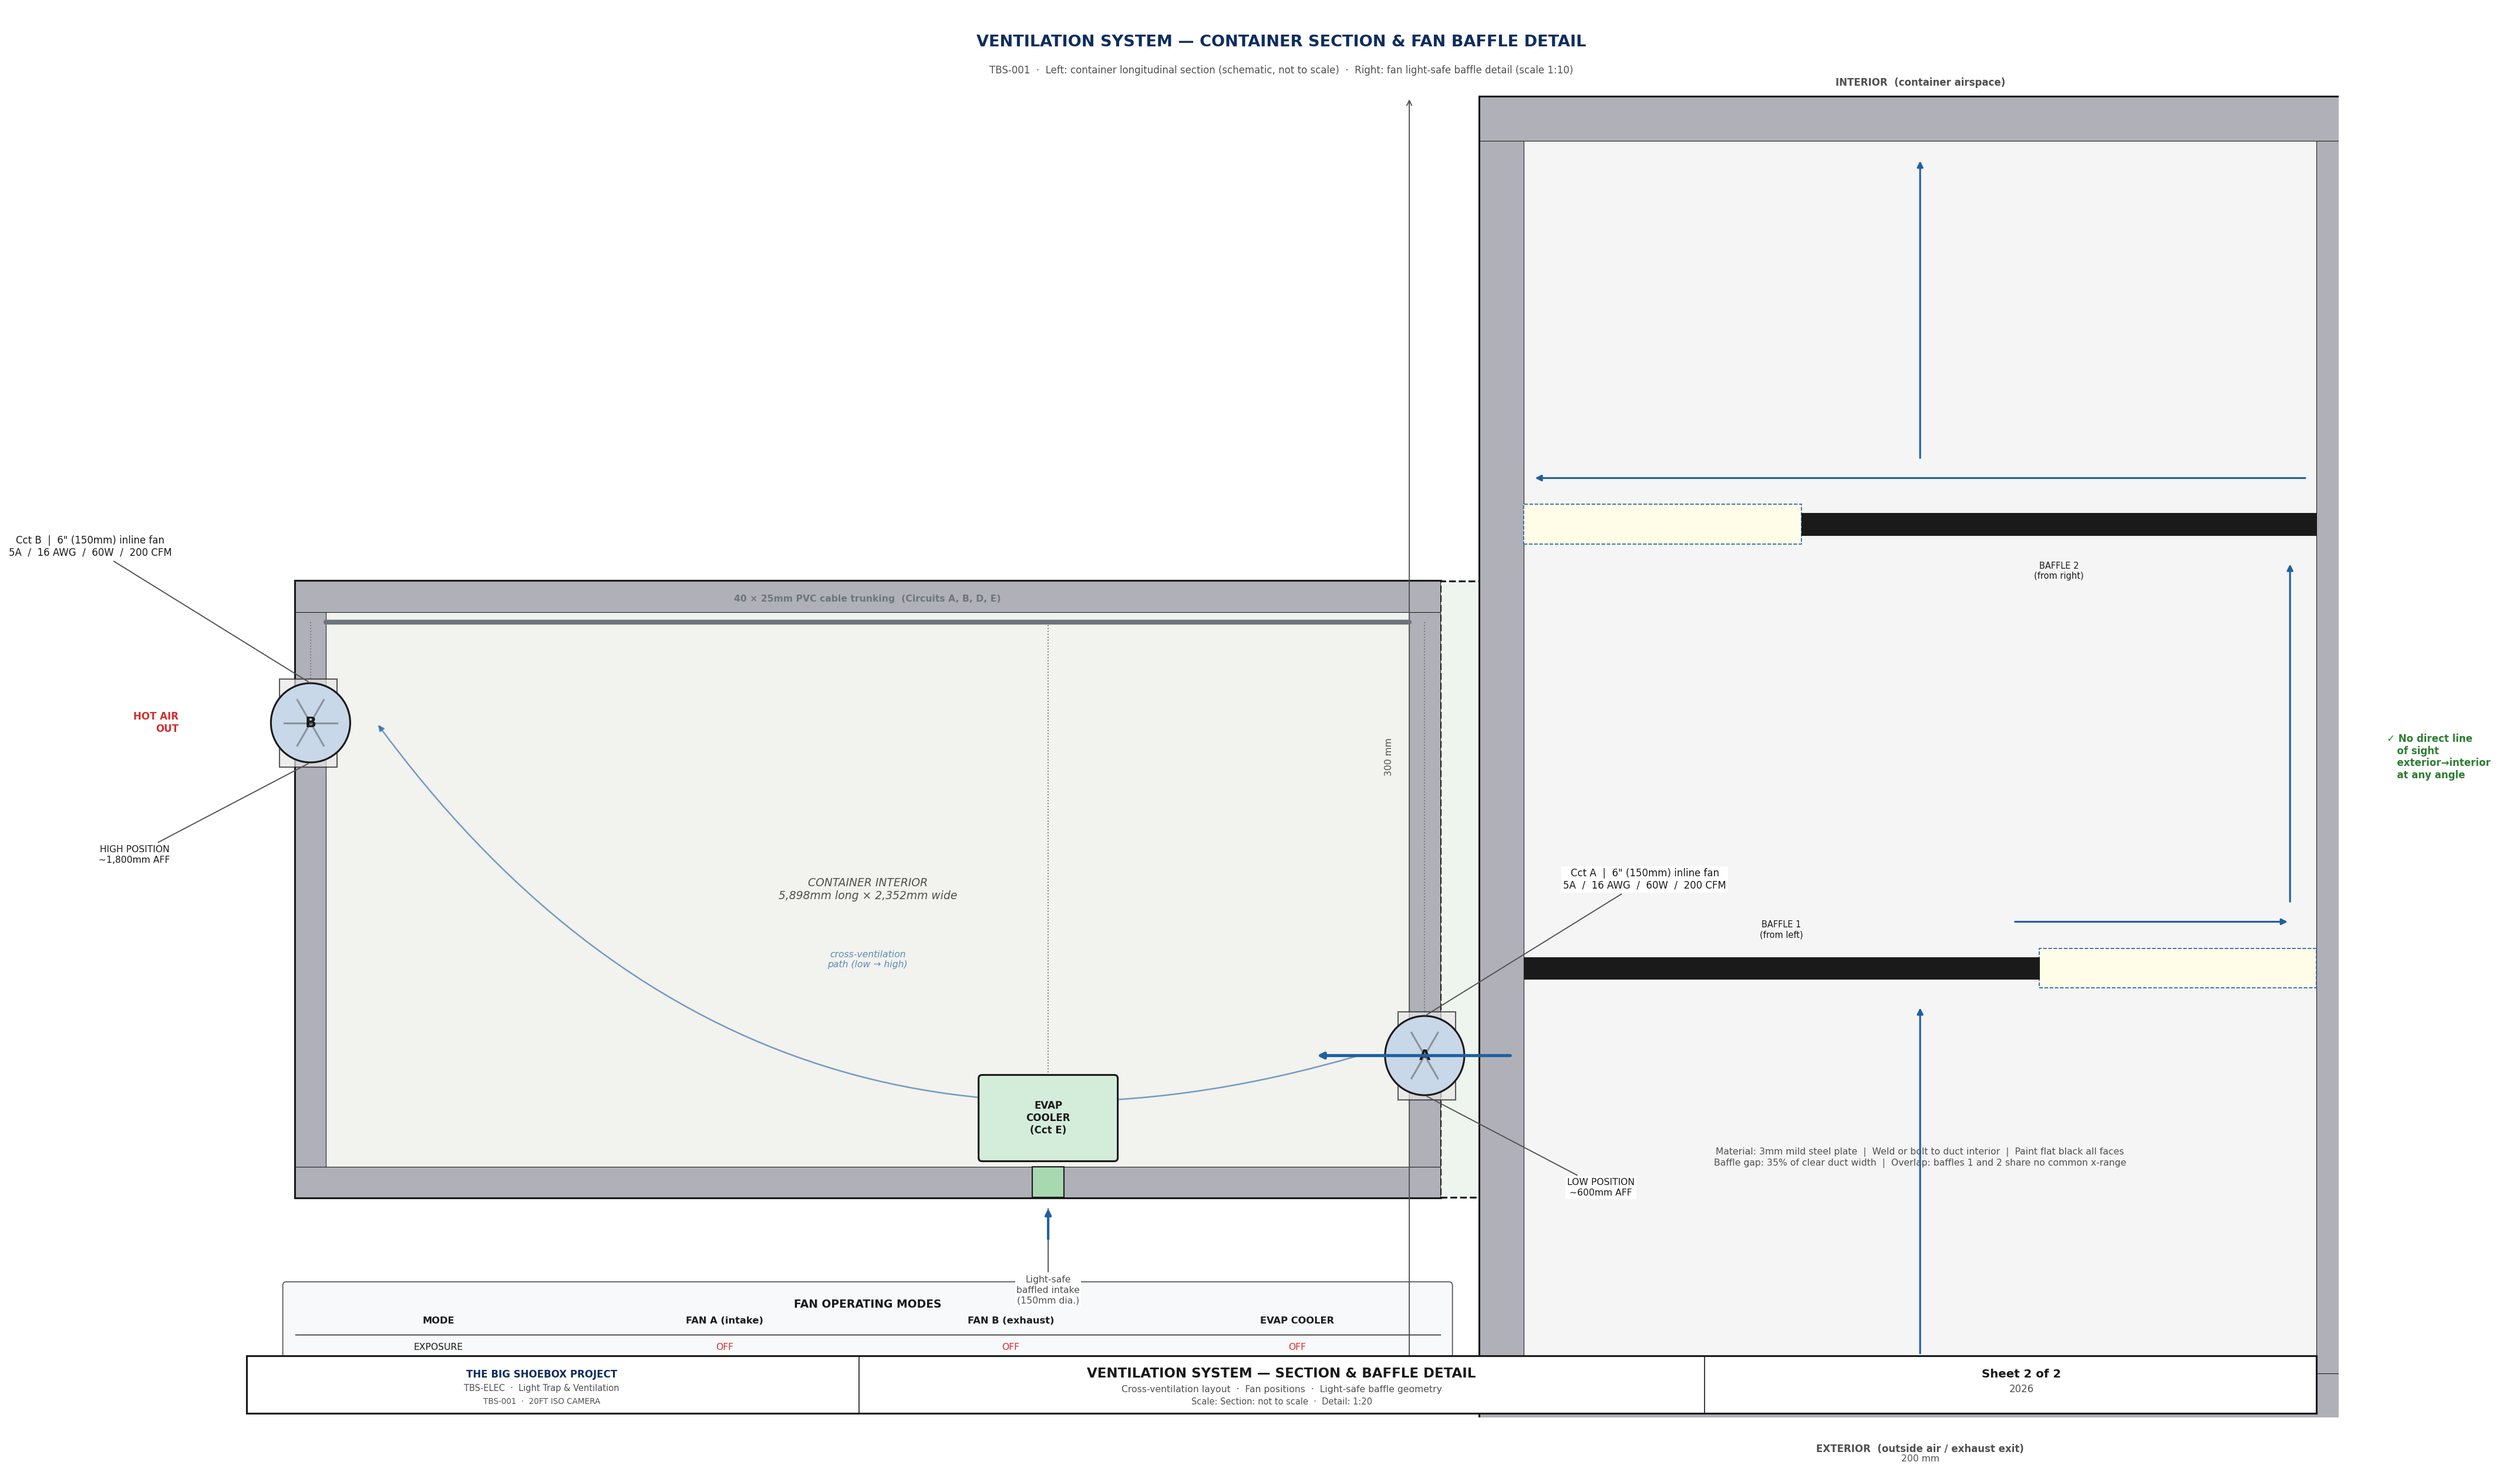
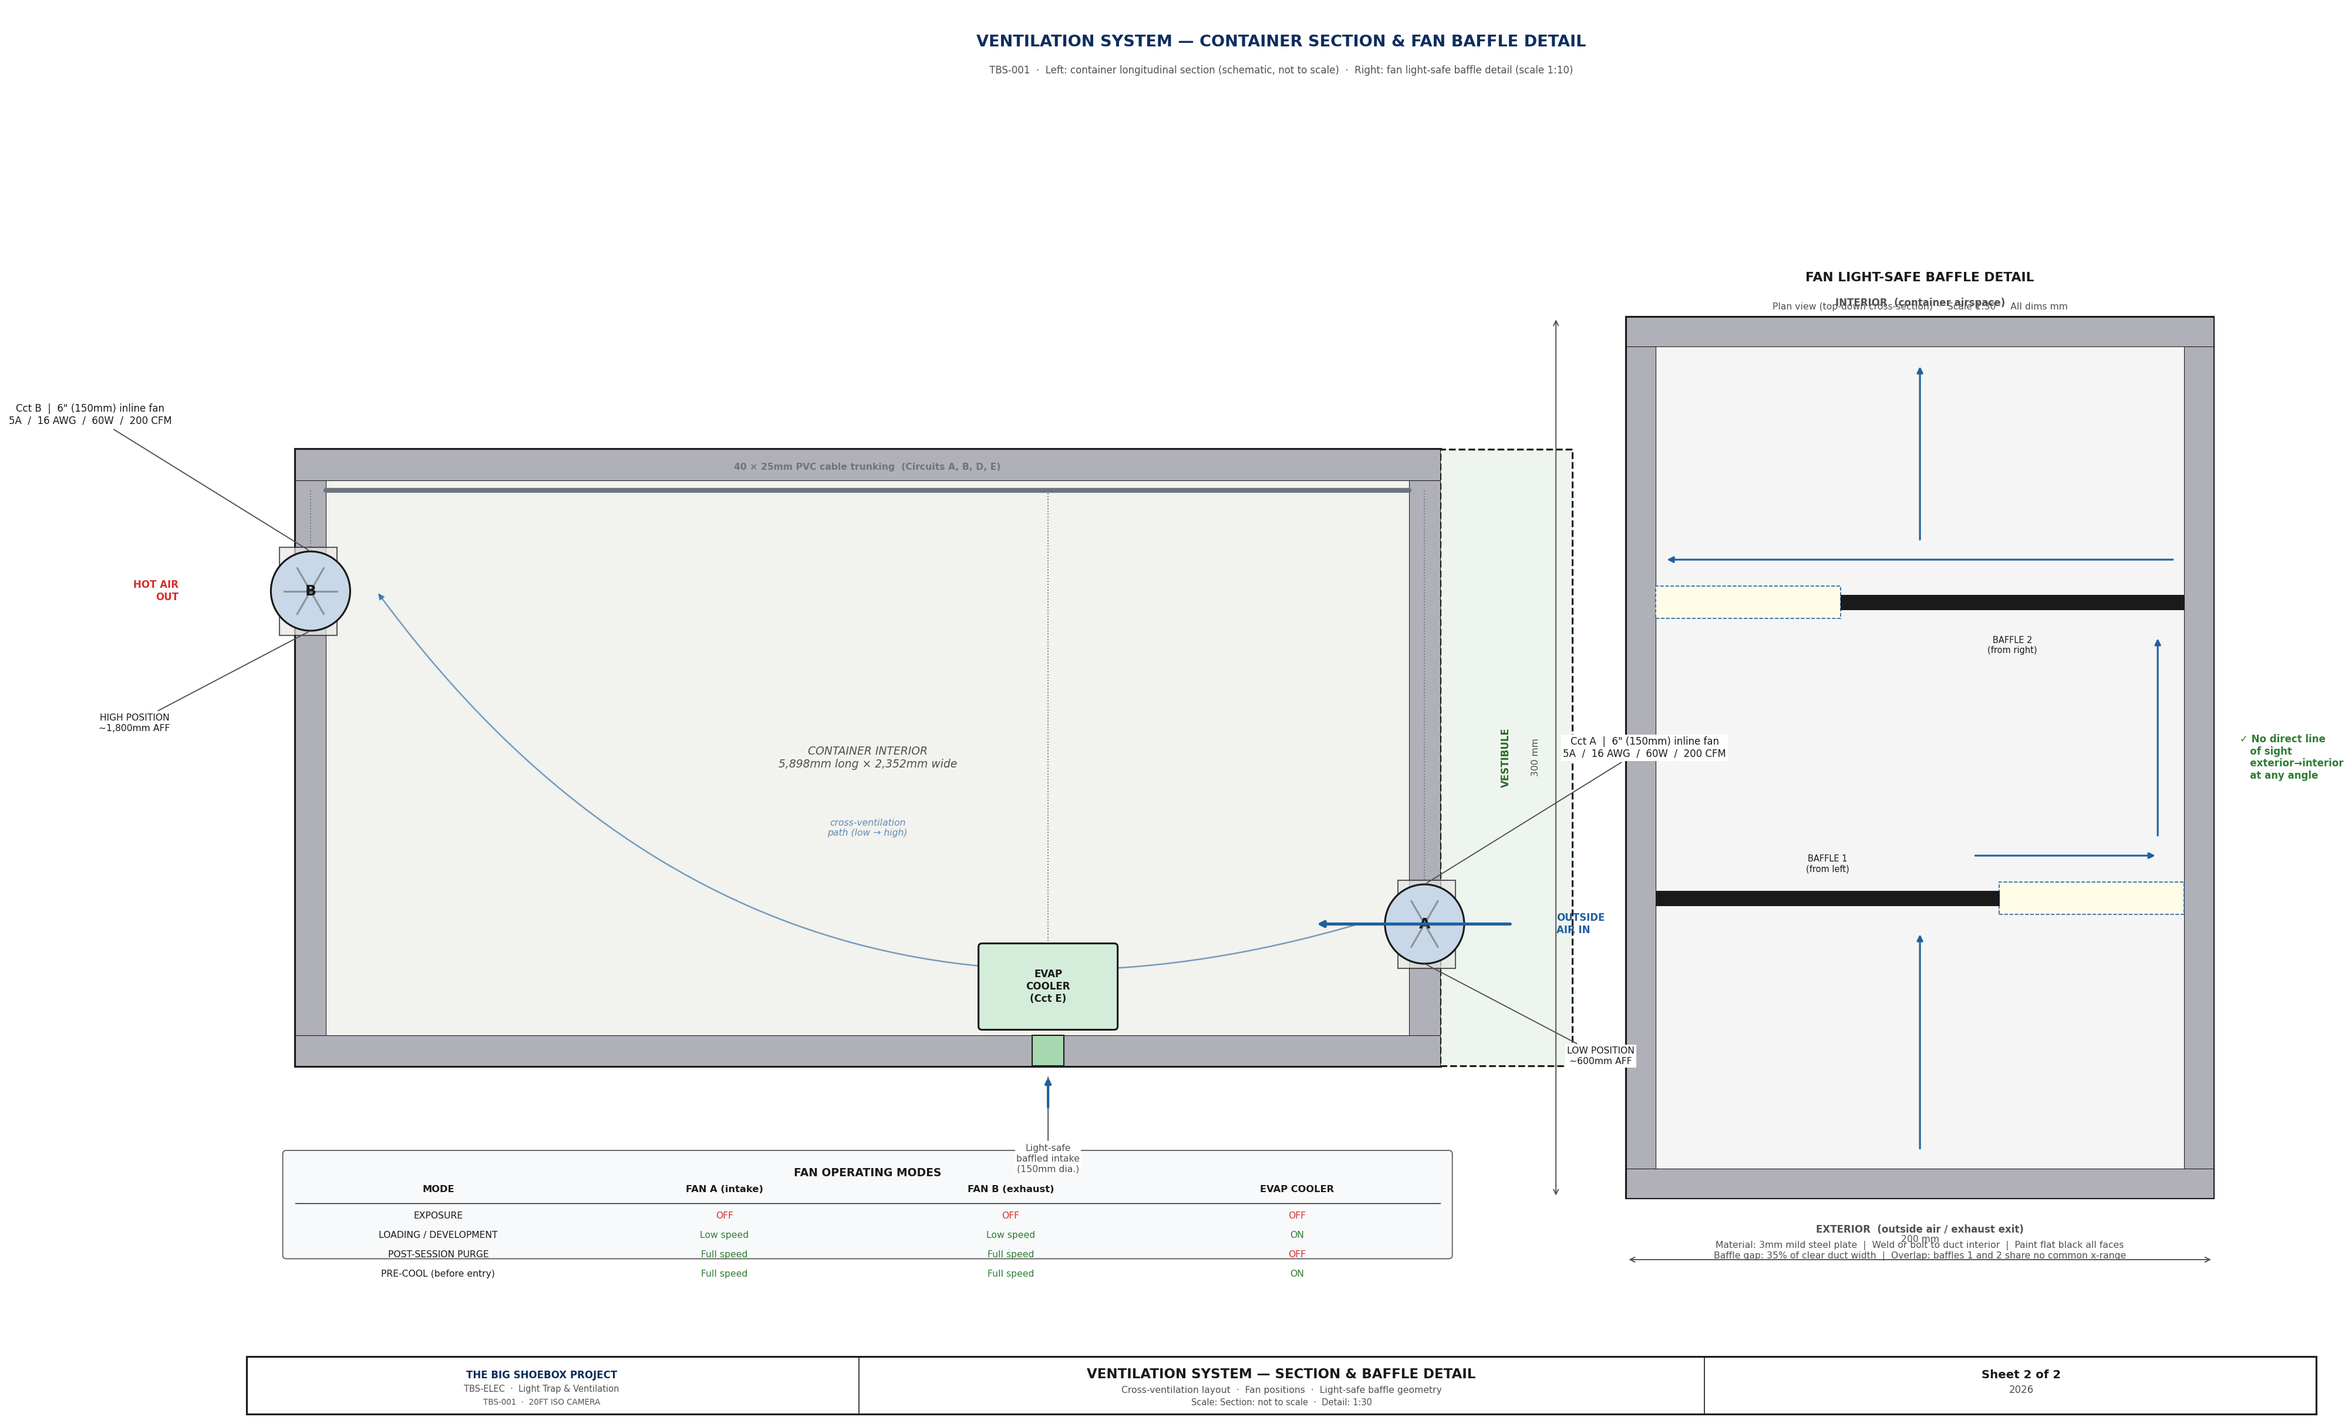
Fix lighttrap sheet overlap: increase vertical margins on both sheets
Sheet 1: OY 4.0→7.0, FH 18→24 — gives clear separation between
  dimension lines, install sequence note, and title block.
Sheet 2: CY 2.5→4.0 lifts operating modes table above title block;
  DS 1/20→1/30 shrinks fan baffle duct to fit within DH=10 area,
  eliminating negative-y overflow. Scale labels updated to 1:30.

diff --git a/generate_lighttrap_diagram.py b/generate_lighttrap_diagram.py
@@ -89,7 +89,7 @@ def dim_v(ax, x, y1, y2, text, col=C_DIM):
 # ─────────────────────────────────────────────────────────────────────────────
 
 def draw_sheet1():
-    FW, FH = 26.0, 18.0
+    FW, FH = 26.0, 24.0
     fig, ax = plt.subplots(figsize=(FW, FH), dpi=150)
     fig.patch.set_facecolor("white")
     ax.set_facecolor("white")
@@ -118,7 +118,7 @@ def draw_sheet1():
     DOOR = 900    # exterior door clear opening mm
 
     # Drawing origin — container inner face at bottom of vestibule
-    OX, OY = 1.3, 4.0
+    OX, OY = 1.3, 7.0
 
     vw = V_W * S   # 24.0 units
     vd = V_D * S   # 12.0 units
@@ -394,7 +394,7 @@ def draw_sheet2():
 
     # ── LEFT HALF: Container longitudinal section ────────────────────────────
     # Schematic box representing the container interior
-    CX, CY = 0.8, 2.5      # container interior bottom-left
+    CX, CY = 0.8, 4.0      # container interior bottom-left
     CW, CH = 13.0, 7.0     # container interior drawing dimensions (schematic)
     WT = 0.35               # wall thickness (schematic)
 
@@ -563,13 +563,12 @@ def draw_sheet2():
             ha="center", va="center", fontsize=10.5,
             fontweight="bold", color=C_OUT)
     ax.text(DX + DW/2, DY + DH + 0.12,
-            "Plan view (top-down cross-section)  ·  Scale 1:10  ·  All dims mm",
+            "Plan view (top-down cross-section)  ·  Scale 1:30  ·  All dims mm",
             ha="center", va="center", fontsize=7.5, color=C_DIM)
 
-    # Scale 1:10 → 1 unit = 10mm
-    # Duct stub: 150mm (6") dia → 15 units. Too wide for 7.5-unit area.
-    # Use scale 1:20 → 1 unit = 20mm
-    DS = 1 / 20.0   # 1 unit = 20mm
+    # Scale 1:30 → 1 unit = 30mm
+    # Duct: 200mm × 300mm → 6.67 × 10 units — fits within DW=7.5, DH=10
+    DS = 1 / 30.0   # 1 unit = 30mm
     # Duct outer box: 200mm × 300mm outer (with 10mm steel walls)
     D_OW = 200 * DS   # 10 units
     D_OH = 300 * DS   # 15 units (depth of baffle stub through wall)
@@ -663,8 +662,8 @@ def draw_sheet2():
             ha="left", va="center", fontsize=8.0, color="#2E7D32",
             fontweight="bold")
 
-    # Spec note
-    ax.text(DX + DW/2, DY + 0.45,
+    # Spec note (below duct exterior face)
+    ax.text(DX + DW/2, B_OY - 0.6,
             "Material: 3mm mild steel plate  |  Weld or bolt to duct interior  |  "
             "Paint flat black all faces\n"
             "Baffle gap: 35% of clear duct width  |  Overlap: baffles 1 and 2 share no common x-range",
@@ -673,7 +672,7 @@ def draw_sheet2():
     title_block(ax, FW, 2, 2,
                 "VENTILATION SYSTEM — SECTION & BAFFLE DETAIL",
                 "Cross-ventilation layout  ·  Fan positions  ·  Light-safe baffle geometry",
-                "Section: not to scale  ·  Detail: 1:20")
+                "Section: not to scale  ·  Detail: 1:30")
 
     plt.savefig("diagrams/lighttrap-sheet2.png", dpi=150, bbox_inches="tight",
                 pad_inches=0.10, facecolor="white")
